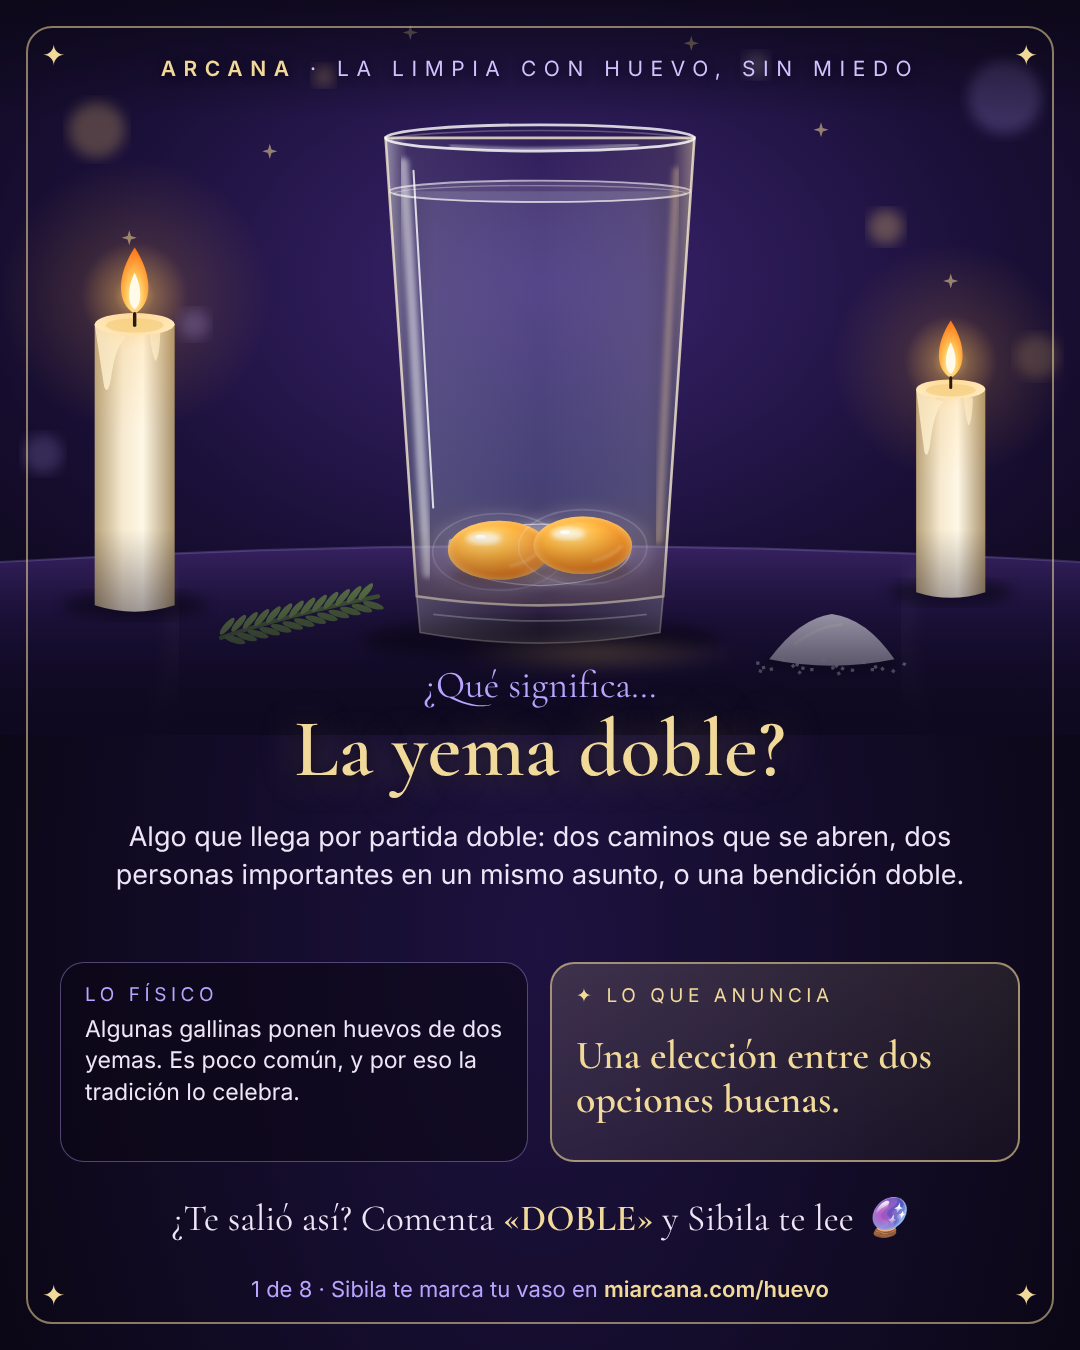
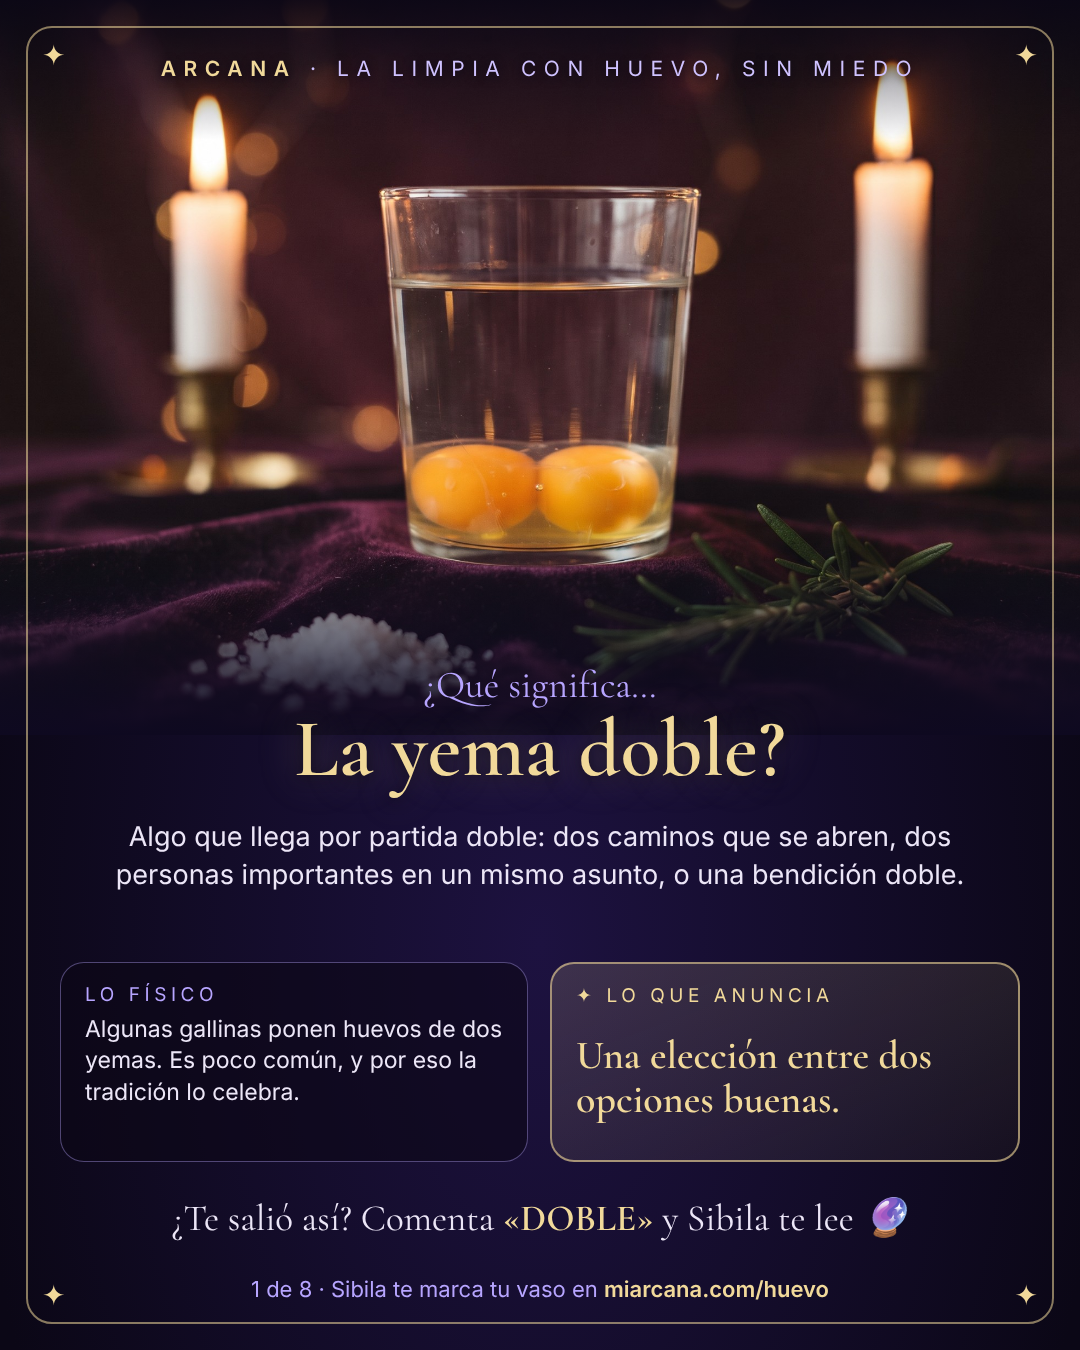
Serie del huevo: fotos realistas de Gemini en yema doble, velitas, velo y puntito rojo
Claude-Session: https://claude.ai/code/session_01VNKRj7yBDJq7Ao2yQwV4zP

diff --git a/marketing/carruseles/que-significa-huevo/generar.js b/marketing/carruseles/que-significa-huevo/generar.js
@@ -196,7 +196,7 @@ const CSS = `
 body { width: 1080px; height: 1350px; overflow: hidden; background: #0b0716; color: #ece6f7; font-family: Inter, sans-serif; }
 .lienzo { position: relative; width: 1080px; height: 1350px; background: radial-gradient(ellipse at 50% 70%, #1d1240 0%, #0b0716 75%); }
 .escena { position: absolute; left: 0; right: 0; top: 0; height: 735px; overflow: hidden; }
-.escena::after { content: ""; position: absolute; inset: 0; background: linear-gradient(180deg, rgba(11,7,22,.75) 0%, rgba(11,7,22,0) 16%, rgba(11,7,22,0) 72%, #0e0920 100%); }
+.escena::after { content: ""; position: absolute; inset: 0; background: linear-gradient(180deg, rgba(11,7,22,.9) 0%, rgba(11,7,22,.35) 10%, rgba(11,7,22,0) 19%, rgba(11,7,22,0) 72%, #0e0920 100%); }
 .marco { position: absolute; inset: 26px; border: 2px solid rgba(241,217,154,.55); border-radius: 26px; z-index: 2; pointer-events: none; }
 .esq { position: absolute; color: #f1d99a; font-size: 28px; z-index: 3; }
 .marca { position: absolute; top: 56px; left: 0; right: 0; text-align: center; font-size: 21px; letter-spacing: .36em; text-transform: uppercase; color: #cfc2ff; z-index: 3; text-shadow: 0 2px 10px #0b0716; }
